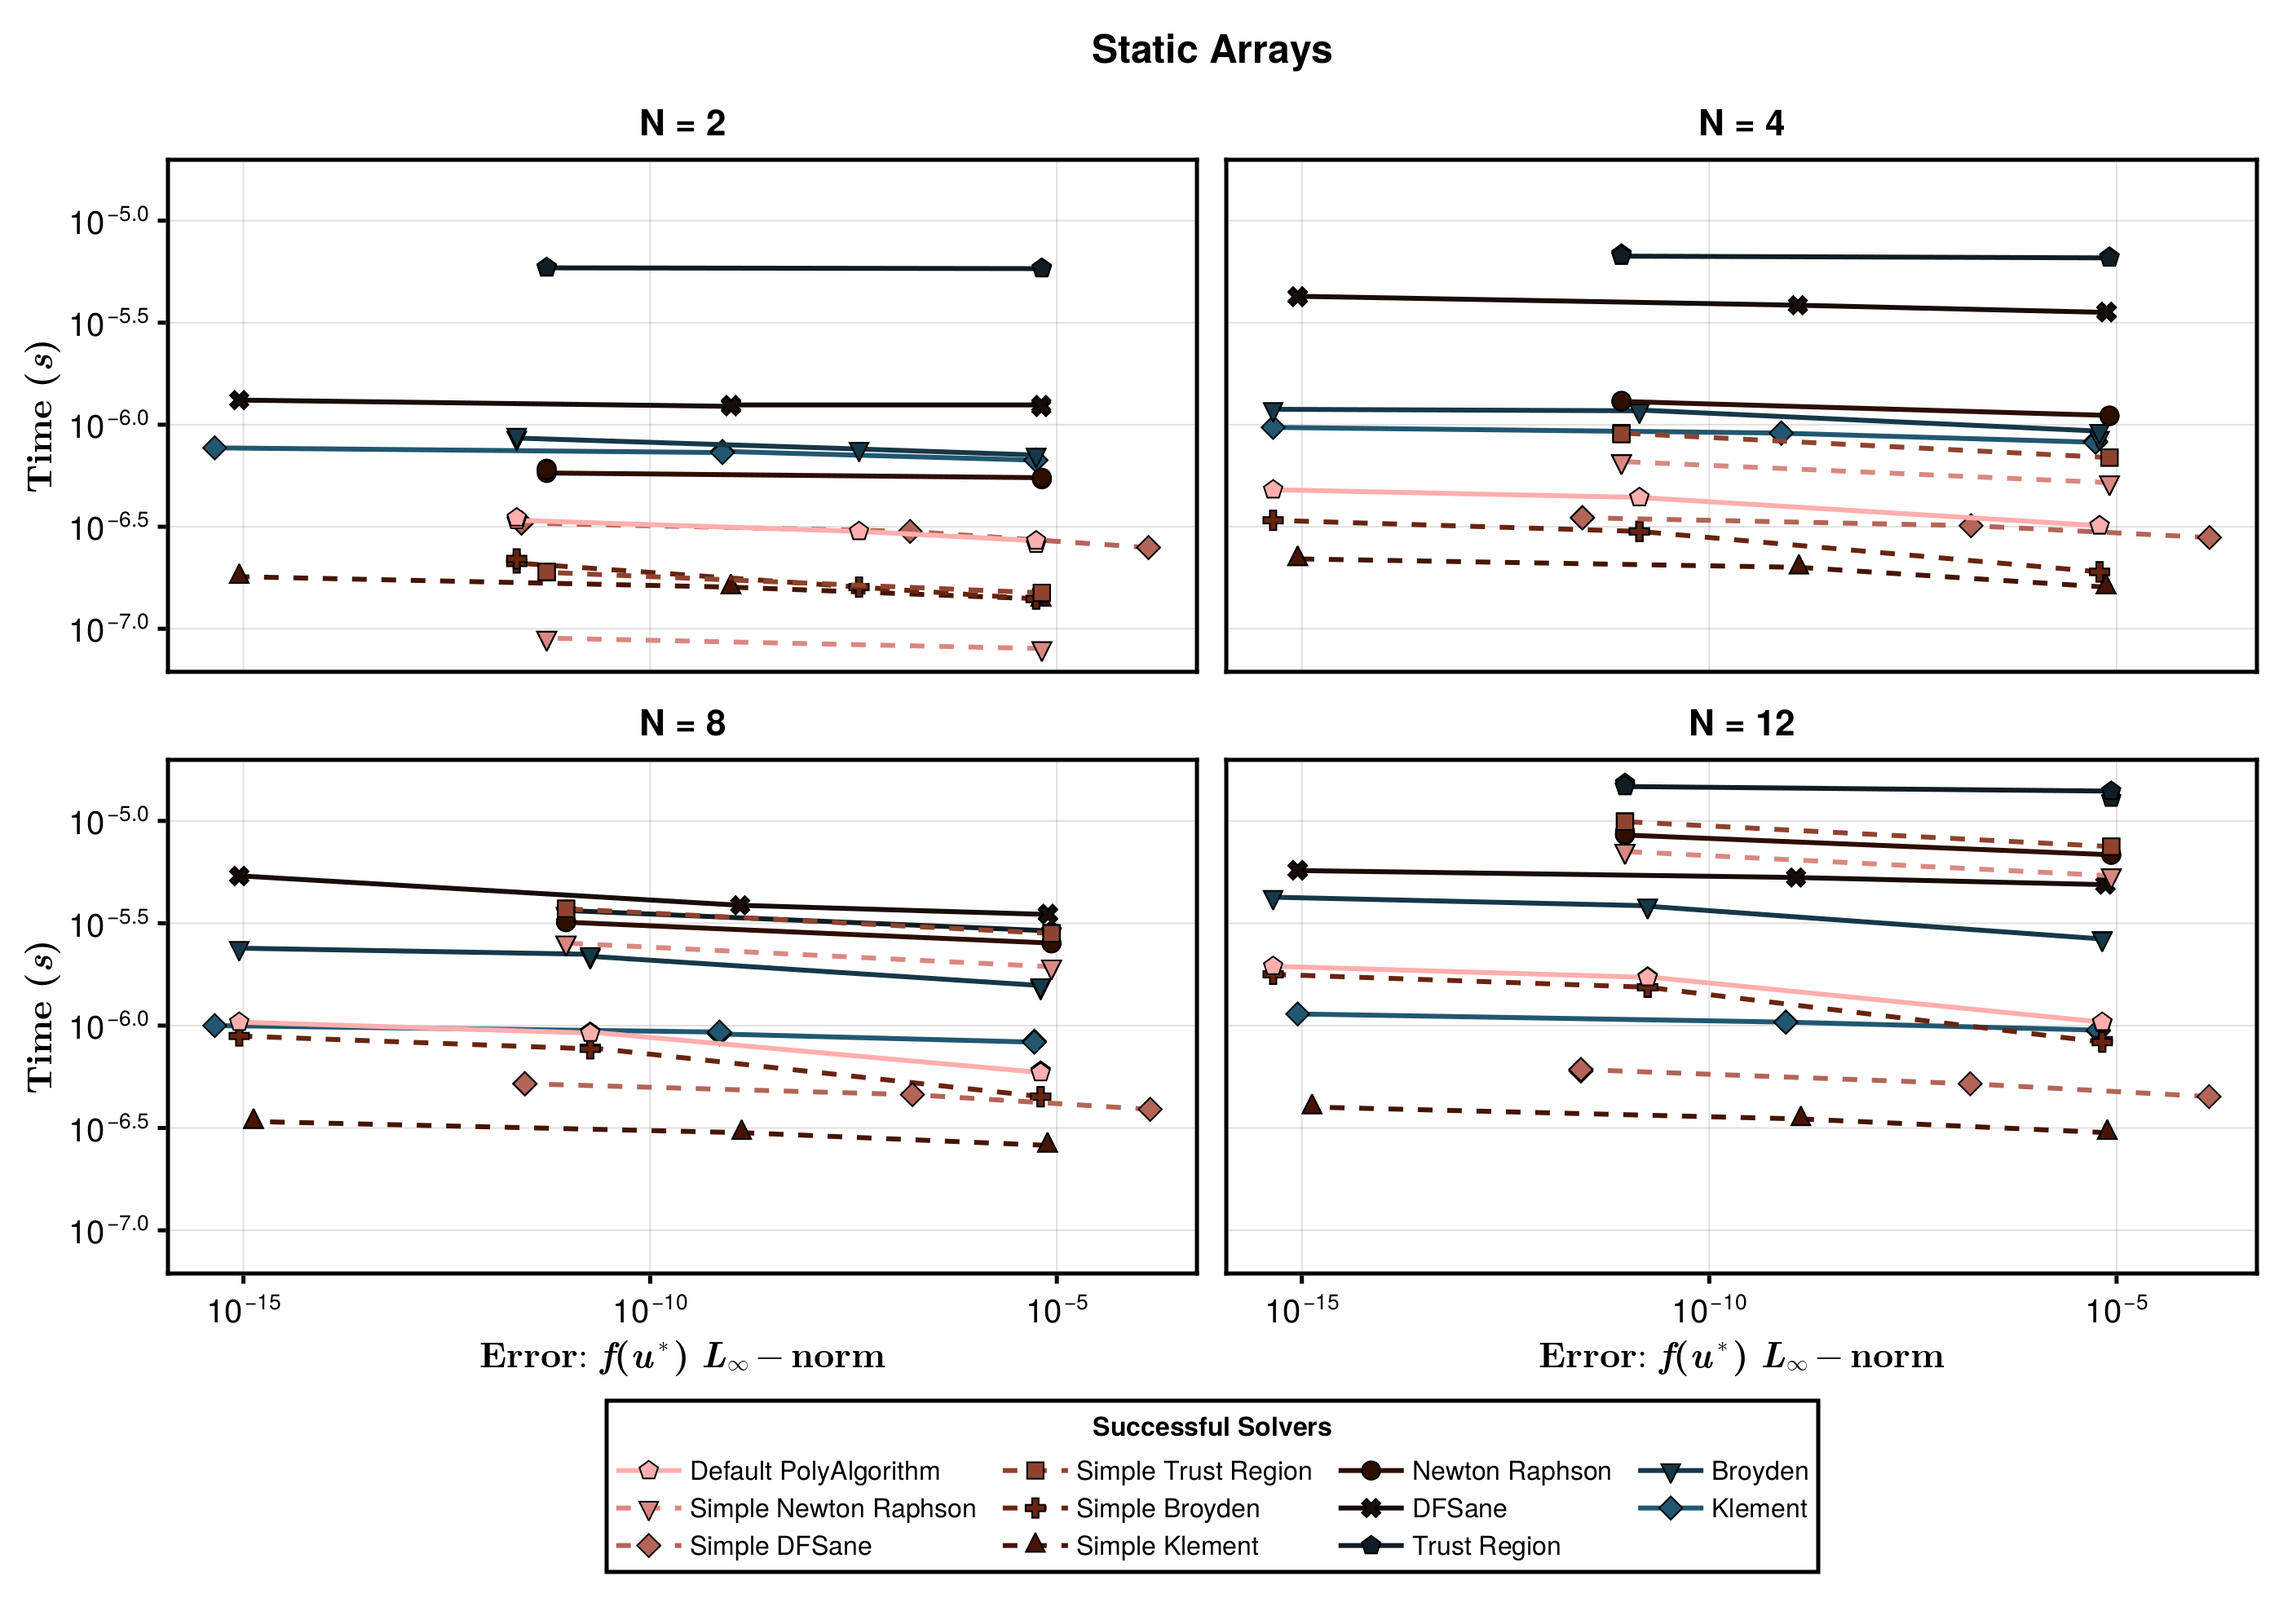
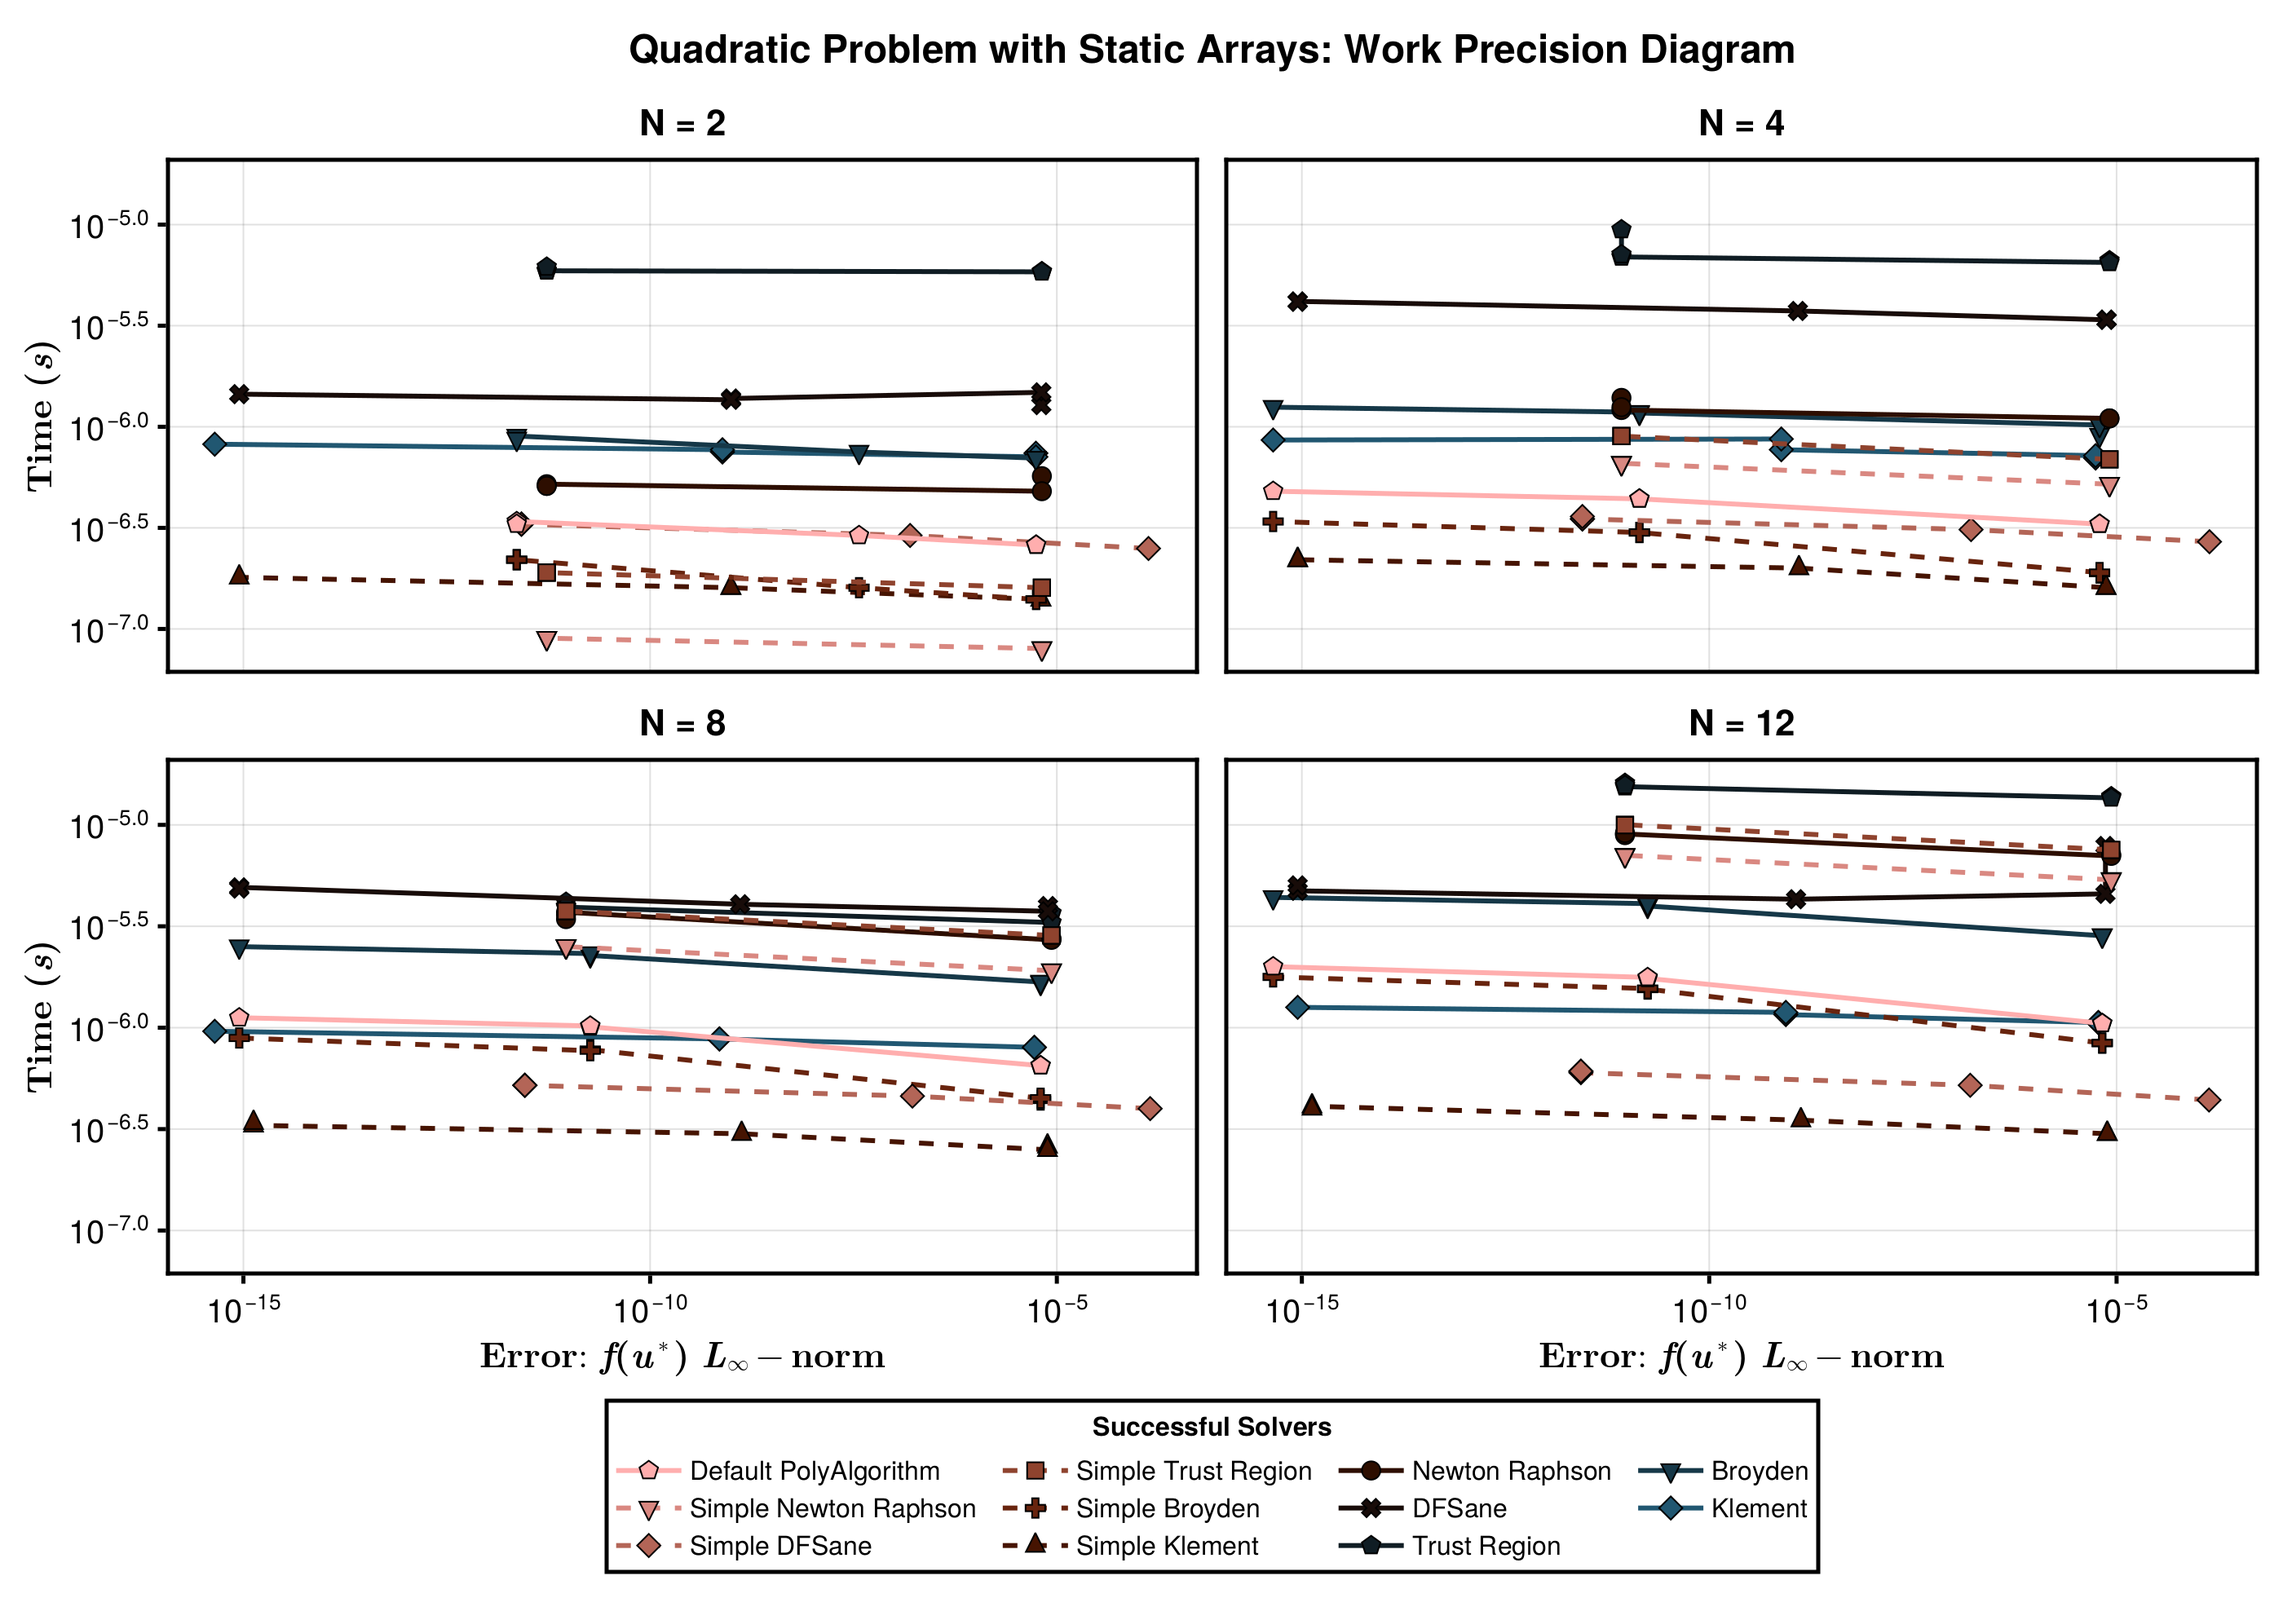
Automatic build\nPublished by build of: https://github.com/SciML/SciMLBenchmarks.jl/commit/8e8e5240b3d4668d386899be4f2a7c1027c795e9

diff --git a/markdown/NonlinearProblem/quadratic_nonlinear.md b/markdown/NonlinearProblem/quadratic_nonlinear.md
@@ -200,7 +200,7 @@ function plot_all_wpsets(wpset_list, solver_all, titles, suptitle)
             titlesize = 16, nbanks = 3, labelsize = 16,
             tellheight = true, tellwidth = false, patchsize = (40.0f0, 20.0f0))
 
-        fig[0, :] = Label(fig, suptitle, fontsize = 24, tellwidth = false, font = :bold)
+        fig[0, :] = Label(fig, "Quadratic Problem with $(suptitle): Work Precision Diagram", fontsize = 24, tellwidth = false, font = :bold)
 
         fig
     end
@@ -623,10 +623,9 @@ fig = begin
 
     fig[0, :] = Label(fig, "Simple Algorithms on Quadratic Root-Finding Problem",
         fontsize = 24, font = :bold)
-    fig[1, 0] = Label(fig, "Quadratic Problem with Static Arrays: Work Precision Diagram",
+    fig[1, 0] = Label(fig, "Static Arrays",
         fontsize = 24, rotation = π / 2, tellheight = false)
-    fig[2, 0] = Label(fig,
-        "Quadratic Problem with Regular Julia Arrays: Work Precision Diagram",
+    fig[2, 0] = Label(fig, "Regular Julia Arrays",
         fontsize = 24, rotation = π / 2, tellheight = false)
 
     labels = ["NonlinearSolve.jl", "NLsolve.jl", "Sundials"]
@@ -676,7 +675,7 @@ Platform Info:
   WORD_SIZE: 64
   LIBM: libopenlibm
   LLVM: libLLVM-15.0.7 (ORCJIT, znver2)
-Threads: 1 default, 0 interactive, 1 GC (on 128 virtual cores)
+Threads: 128 default, 0 interactive, 64 GC (on 128 virtual cores)
 Environment:
   JULIA_CPU_THREADS = 128
   JULIA_DEPOT_PATH = /cache/julia-buildkite-plugin/depots/5b300254-1738-4989-ae0a-f4d2d937f953
@@ -742,7 +741,7 @@ Status `/cache/build/exclusive-amdci1-0/julialang/scimlbenchmarks-dot-jl/benchma
   [159f3aea] Cairo v1.0.5
   [13f3f980] CairoMakie v0.11.8
   [49dc2e85] Calculus v0.5.1
-  [d360d2e6] ChainRulesCore v1.21.1
+⌃ [d360d2e6] ChainRulesCore v1.21.1
   [fb6a15b2] CloseOpenIntervals v0.1.12
   [523fee87] CodecBzip2 v0.8.2
   [944b1d66] CodecZlib v0.7.4
